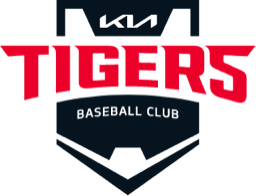
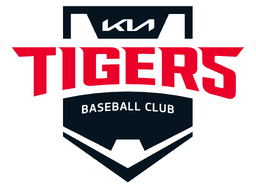
UI: 로고 흰 타일 제거(투명 그대로) + KBO 탭에 KBO 공식 로고
- 다크 배경에서 묻히던 KIA는 흰 외곽선 SVG판, 롯데는 원 안 채움판으로 교체
- KBO 로고: koreabaseball.com 로고 페이지 AI 자료(가로조합)를 흰 단색으로, 마스크로 글자색 추종

Changed region(s): [[0.0, 0.0, 1.0, 1.0], [0.2812, 0.5263, 0.7188, 0.6053]]

diff --git a/src/App.css b/src/App.css
@@ -4305,8 +4305,18 @@
 .ctrl-right {
   justify-content: flex-end;
 }
+/* KBO 탭 라벨 — 공식 로고(흰색 단색)를 마스크로 써서 세그먼트 글자색(활성/비활성)을 그대로 따른다. */
+.kbo-mark {
+  display: inline-block;
+  width: 3.1em;
+  height: 1.12em;
+  vertical-align: middle;
+  background: currentColor;
+  -webkit-mask: url('/kbo-logo.png') center / contain no-repeat;
+  mask: url('/kbo-logo.png') center / contain no-repeat;
+}
 
-/* 구단 엠블럼 — 공식 로고를 밝은 타일 위에(어두운 로고도 다크 배경에서 보이게). */
+/* 구단 엠블럼 — 공식 로고(투명 배경) 그대로. */
 .team-chip {
   display: inline-flex;
   align-items: center;
@@ -4316,13 +4326,10 @@
 }
 .team-logo {
   flex: 0 0 auto;
-  width: 1.9em;
-  height: 1.9em;
-  padding: 2px;
+  width: 2em;
+  height: 2em;
   object-fit: contain;
-  border-radius: 7px;
-  background: #fff;
-  box-shadow: 0 1px 4px rgba(0, 0, 0, 0.35);
+  filter: drop-shadow(0 1px 2px rgba(0, 0, 0, 0.45));
 }
 .team-chip-name {
   font-weight: 800;
@@ -4364,13 +4371,11 @@
   transform: scale(0.97);
 }
 .team-pick-logo {
-  flex: 0 0 34px;
-  width: 34px;
-  height: 34px;
-  padding: 3px;
+  flex: 0 0 36px;
+  width: 36px;
+  height: 36px;
   object-fit: contain;
-  border-radius: 8px;
-  background: #fff;
+  filter: drop-shadow(0 1px 2px rgba(0, 0, 0, 0.45));
 }
 .team-pick-name {
   min-width: 0;

diff --git a/src/App.tsx b/src/App.tsx
@@ -606,8 +606,9 @@ export default function App() {
               className={`seg-btn${section === 'kbo' ? ' active' : ''}`}
               aria-pressed={section === 'kbo'}
               onClick={() => guardedSwitch(() => setSection('kbo'))}
+              aria-label="KBO"
             >
-              KBO
+              <span className="kbo-mark" aria-hidden="true" />
             </button>
           </div>
           <div className="ctrl-side ctrl-right">

diff --git a/CLAUDE.md b/CLAUDE.md
@@ -47,7 +47,8 @@
   - 세그먼트는 전부 `.seg`/`.seg-btn`(활성=그린) 공용.
 - **KBO 팬 랭킹**(구단 대항전): 팬이 응원 구단(KBO 10개 구단, `src/game/teams.ts` ↔ `server/src/teams.ts` 복제)을 달고 경쟁.
   신원은 로그인 없이 **익명 기기 id**(`localStorage.nb_player_id` uuid, 형식 깨지면 재발급) + `nb_team` + 닉네임 `nb_nick`(`src/net/fan.ts`). 구단 선택은 `TeamPicker`(닉네임+10구단 시트).
-  **구단 표시는 이름이 아니라 공식 엠블럼**(`TeamChip` — 흰 타일 위 로고, `withName`이면 옆에 구단명). 로고는 `public/teams/<id>.png`(각 구단 공식 홈페이지 CI/BI 페이지에서 받은 이미지, 최대 256px로 축소).
+  **구단 표시는 이름이 아니라 공식 엠블럼**(`TeamChip` — 투명 배경 로고 그대로, `withName`이면 옆에 구단명). 로고는 `public/teams/<id>.png`(각 구단 공식 홈페이지 CI/BI 자료, 최대 256px — 다크 배경에서 묻히는 KIA는 흰 외곽선 SVG판, 롯데는 원 안을 채운 판).
+  헤더 KBO 탭 라벨은 **KBO 공식 로고**(`public/kbo-logo.png`, koreabaseball.com 로고 페이지의 AI 자료 가로조합을 흰 단색으로) — CSS `mask`로 써서 세그먼트 글자색을 따른다.
   - **솔로 랭킹전**(설정 모드 `nb_ranked`): **서버 판정**(정답은 서버만, `server/src/ranked.ts`) — `rankedStart`(같은 자릿수 진행 판 있으면 이어하기, `forfeit`면 실패 처리 후 새 판) / `rankedGuess`(판정·종료 시 정답·결과).
     시도 **10회 고정**(`RANKED_MAX_ATTEMPTS`). **점수 = 11 − 시도(1회=10점…10회=1점), 4자리 2배, 실패 0점**(`soloPoints`, `src/game/ranking.ts` ↔ `server/src/ranking.ts` 복제).
     추측이 있는 판을 버리면(새 게임·자릿수 변경·30분 방치) **실패로 기록**(체리피킹 방지), 1인 **24시간 30판 상한**(`RANKED_DAILY_LIMIT`), 같은 플레이어의 시작 요청은 직렬화.
